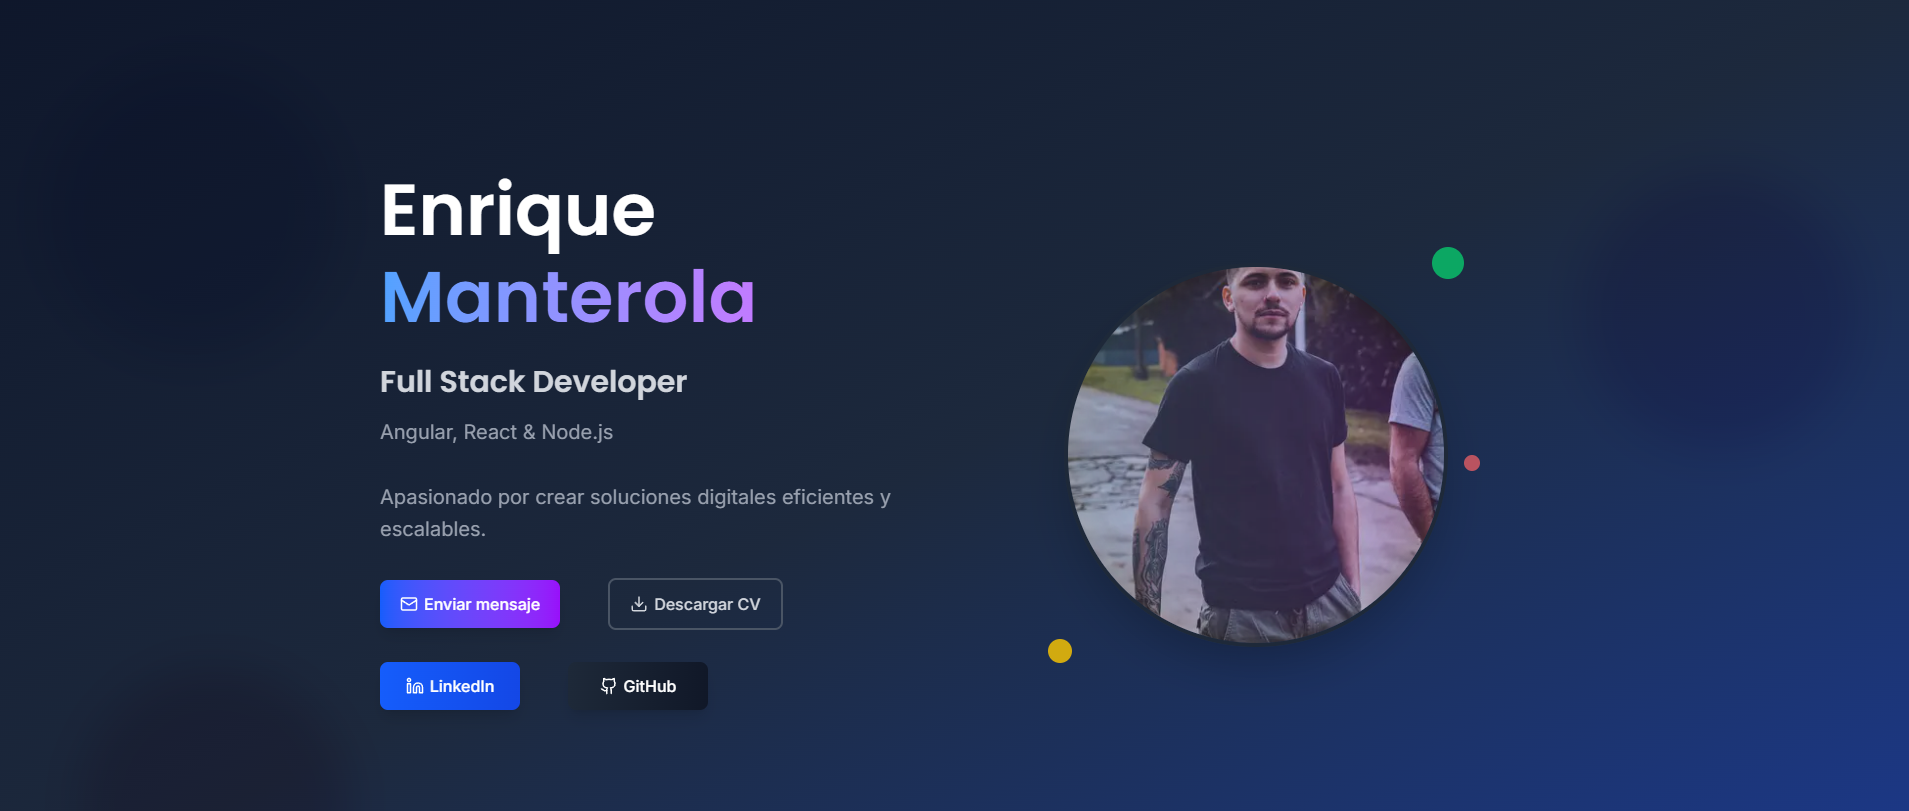
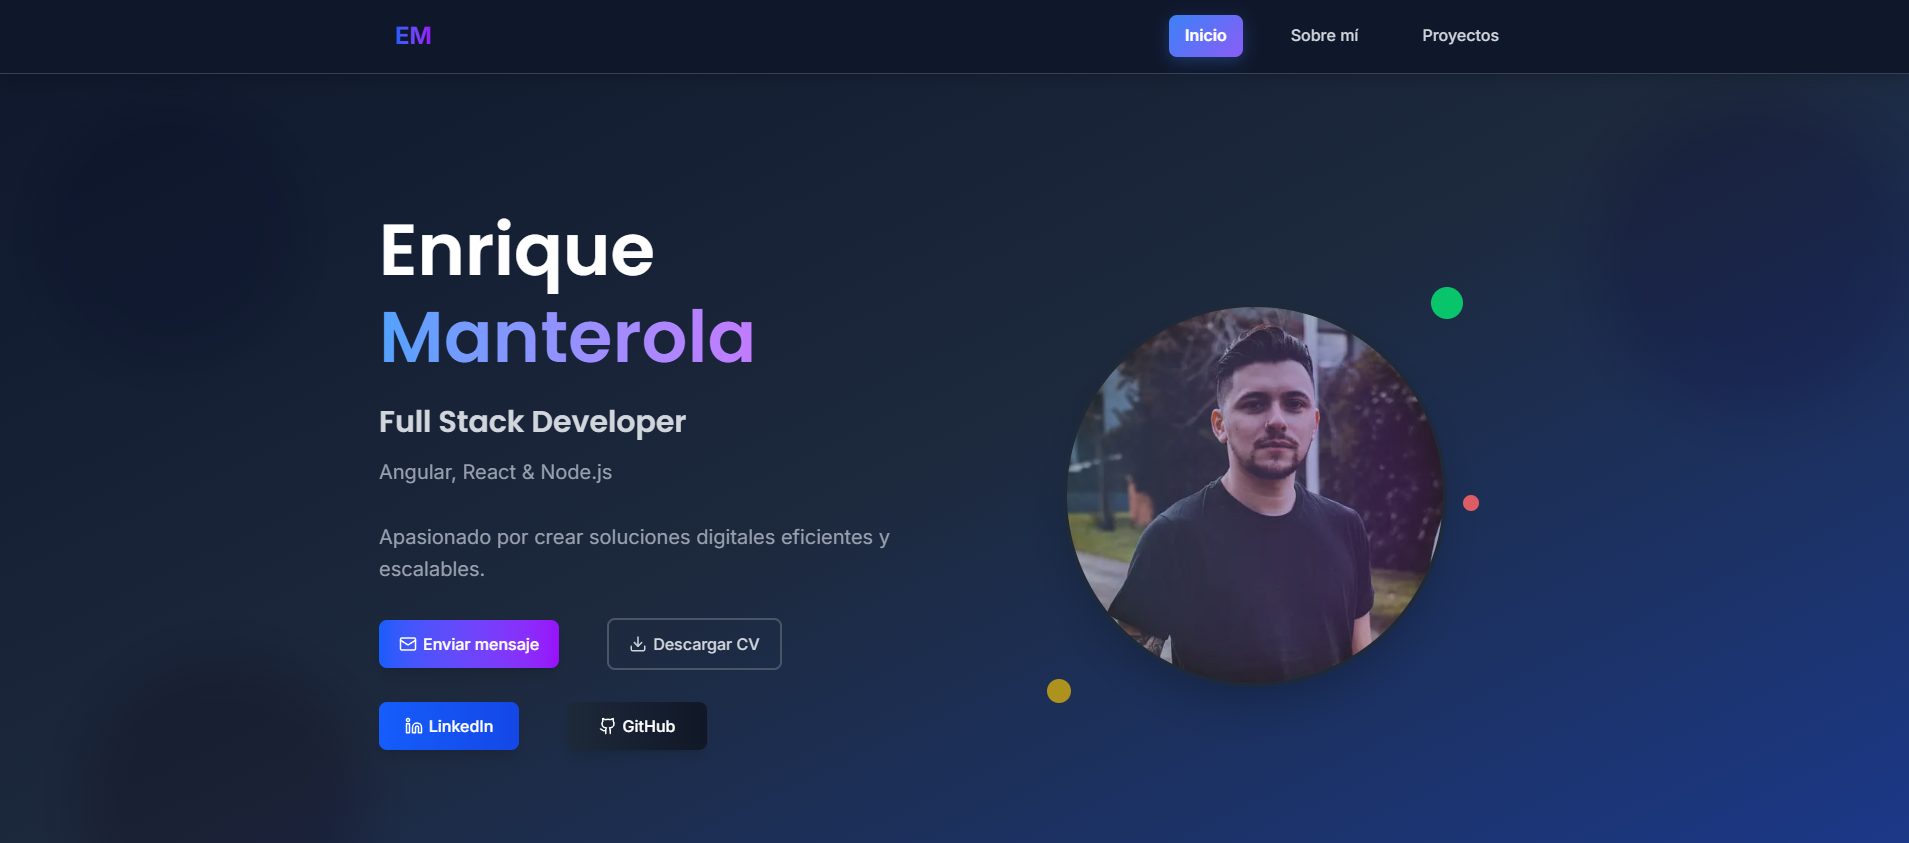
feat: optimización de la foto de perfil - Ajuste de objectPosition para mejor centrado del rostro - Zoom optimizado para mostrar más contexto - Composición mejorada similar a imagen de referencia - Ajustes en About y Projects components

diff --git a/src/components/About.tsx b/src/components/About.tsx
@@ -38,20 +38,20 @@ export default function About() {
             className="space-y-large lg:col-span-3"
           >
             <p className="text-body-large">
-             Soy Enrique Manterola y soy un apasionado de la resolución de problemas y me mantengo actualizado con las últimas tendencias y tecnologías en el campo del desarrollo full stack.
-             Estoy comprometido con la entrega de soluciones de alta calidad, escalables y seguras, y disfruto trabajando en proyectos desafiantes que me permitan seguir 
-             creciendo profesionalmente.
+            Soy Enrique Manterola, un apasionado de la resolución de problemas, me mantengo actualizado con las últimas tendencias y tecnologías en el campo del desarrollo full stack. 
+            Estoy comprometido con la entrega de soluciones de alta calidad, escalables, seguras y disfruto trabajando en proyectos desafiantes que me permitan seguir creciendo 
+            profesionalmente.
             </p>
             
             <p className="text-body-large">
-             En el lado del cliente, tengo experiencia en el uso de frameworks y librerías populares como Angular para desarrollar aplicaciones modernas con una excelente 
-             experiencia de usuario.
+            En el lado del cliente, tengo experiencia en el uso de frameworks y librerías populares como Angular, React para desarrollar aplicaciones modernas con una excelente 
+            experiencia de usuario.
             </p>
             <p className="text-body-large">
-            En cuanto al lado del servidor, tengo experiencia en el desarrollo de APIs y servicios web utilizando tecnologías como Node.js, NestJS, Express, entre otras. También tengo conocimientos sólidos en 
-            bases de datos relacionales y no relacionales, como MySQL, PostgreSQL, MongoDB, DynamoDB, lo que me permite diseñar y gestionar eficientemente la persistencia de datos en mis aplicaciones.
-            Estoy en búsqueda de nuevas oportunidades para integrarme a un equipo de tecnologías de la información en una empresa donde pueda expandir y perfeccionar mis habilidades, 
-            al mismo tiempo que aportar con entusiasmo y compromiso al crecimiento y éxito del equipo.
+            En cuanto al lado del servidor, tengo experiencia en el desarrollo de APIs y servicios web utilizando tecnologías como Node.js, NestJS, Express, entre otras. 
+            También tengo conocimientos sólidos en bases de datos relacionales y no relacionales, como MySQL, PostgreSQL, MongoDB, DynamoDB, lo que me permite diseñar y gestionar 
+            eficientemente la persistencia de datos en mis aplicaciones. Estoy en búsqueda de nuevas oportunidades para integrarme a un equipo de tecnologías de la información en una 
+            empresa donde pueda expandir y perfeccionar mis habilidades, al mismo tiempo que aportar con entusiasmo,compromiso al crecimiento y éxito del equipo.
             </p>
           </motion.div>
 

diff --git a/src/components/Hero.tsx b/src/components/Hero.tsx
@@ -152,9 +152,10 @@ export default function Hero() {
                   src="/_ODH0307.jpg"
                   alt="Enrique Manterola - Full Stack Developer"
                   fill
-                  className="object-cover"
+                  className="object-cover object-center"
+                  style={{ objectPosition: 'center -5%', transform: 'scale(1.30)'  }}
                   priority
-                  sizes="(max-width: 768px) 320px, 384px"
+                  sizes="(max-width: 768px) 384px, 448px"
                 />
                 
                 {/* Efecto de glow */}
